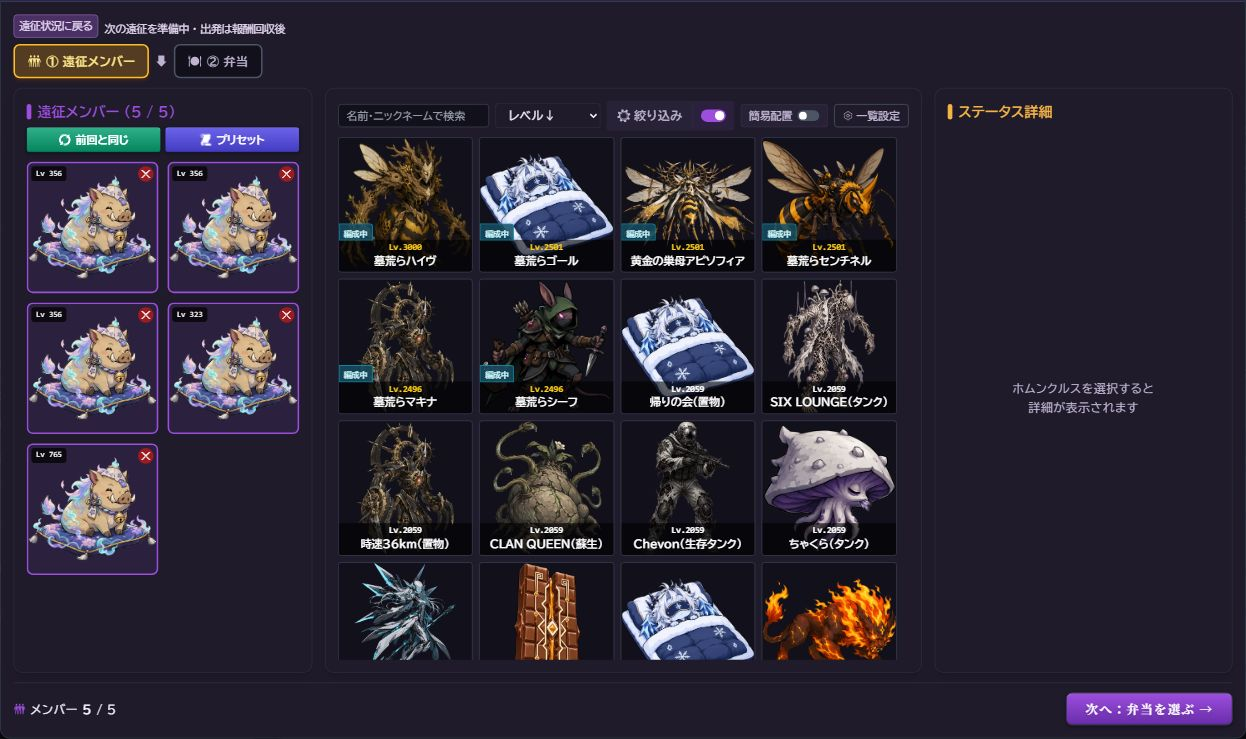
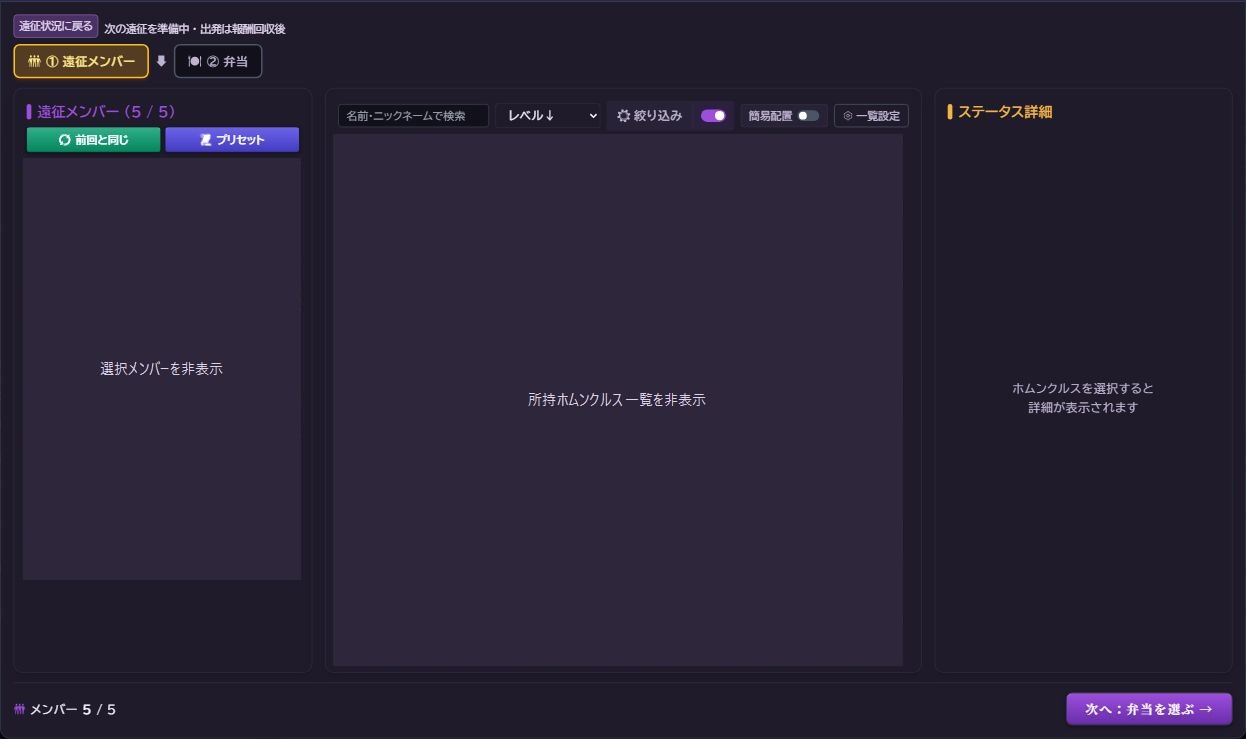
Mask player rosters in the public guide

diff --git a/guide/shots.js b/guide/shots.js
@@ -32,7 +32,7 @@ const screenshots = {
   },
   "expedition-members": {
     title: "次の遠征メンバーを選ぶ",
-    filename: "expedition-members.jpg",
+    filename: "expedition-members.jpg?v=masked",
     steps: [[27, 22, "所持ホムンクルスから次のメンバーを選ぶ"], [84, 96, "「次へ：弁当を選ぶ」を押す"]]
   },
   "expedition-plan": {
@@ -52,6 +52,7 @@ const screenshots = {
   },
   "party-share": {
     title: "編成を共有する",
+    filename: "party-share.png?v=masked",
     steps: [[8, 33, "「共有リンクをコピー」を押す"], [27, 33, "「画像を保存」なら1枚の画像で渡せる"]]
   },
   "party-import": {
@@ -68,6 +69,7 @@ const screenshots = {
   },
   "training-grant": {
     title: "必要な永久スキルを付与する",
+    filename: "training-grant.png?v=masked",
     steps: [[64, 44, "訓練所のスキル付与で、ルート設定済みの個体を選択"], [27, 42, "所持スキル一覧では、名前でも検索できる"], [21, 63, "緑の枠が付いた未付与の必要スキルを確認"]]
   },
   "training-inherit": {

diff --git a/guide/index.html b/guide/index.html
@@ -128,6 +128,6 @@
     </section>
   </main>
   <footer class="shell"><a href="../">← はこホム拡張の配布ページ</a><span>画像はゲーム内を撮影し、操作箇所を切り出しています。一部の名前や残高を伏せています。</span></footer>
-  <script src="./shots.js" defer></script>
+  <script src="./shots.js?v=masked" defer></script>
 </body>
 </html>

diff --git a/CONTRIBUTING.md b/CONTRIBUTING.md
@@ -25,7 +25,7 @@ node --check dist/arkhomu-af-lv4000.user.js
 
 ## 配布の流れ
 
-メンテナーが `main` にマージすると、GitHub Actionsが配布番号を更新し、PC用ZIP、Android用Tampermonkeyスクリプト、iPhone・iPad用Userscriptsスクリプトをビルドします。ビルドが通ると3つのファイルと配布ページをまとめて公開します。番号は `main` のコミット履歴から決まり、同じコミットを再実行すると同じ番号になります。
+メンテナーが `main` にマージすると、GitHub ActionsがPC用ZIP、Android用Tampermonkeyスクリプト、iPhone・iPad用Userscriptsスクリプトをビルドします。ビルドが通ると3つのファイルと配布ページをまとめて公開します。配布番号は、拡張本体とモバイルの更新スクリプトの変更に合わせて進みます。取説や配布ページの編集時は直前の配布番号で公開します。
 
 PCだけを更新するときは、`main` に入るコミットの件名の末尾に `[pc-only]` を付けます。この場合もPC用ZIPと配布ページを更新し、スマホ用ファイルは直前の通常配布と同じ内容を公開します。
 
